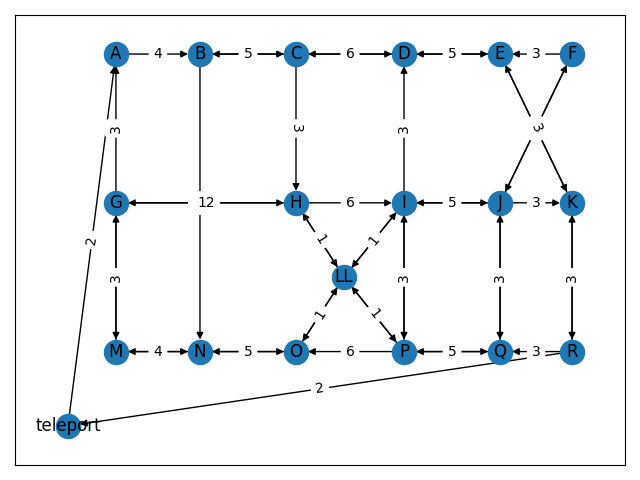
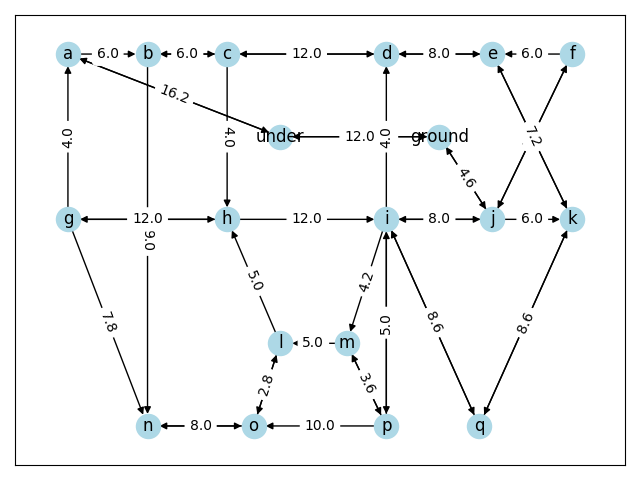
Improve example

diff --git a/examples/drawing.py b/examples/drawing.py
@@ -8,28 +8,34 @@ from asciidigraphs.parser import parse
 if __name__ == "__main__":
     graph = parse(
         r"""
-    (A)--->(B)-----(C)------(D)-----(E)<--(F)
-     ^      |       |        ^         \ /
-     |      |       |        |          X
-     |      |       v        |         / \
-    (G)-----+------(H)----->(I)-----(J)-->(K)
-     |      |         \    / |       |     |
-     |      |          (LL)  |       |     |
-     |      v         /    \ |       |     |
-    (M)----(N)-----(O)<-----(P)-----(Q)<--(R)
-
-(teleport)
+    (a)-->(b)---(c)---------(d)-----(e)<--(f)
+     ^     |     |           ^         \ /
+     |     |     |           |          X
+     |     |     v           |         / \
+    (g)----+----(h)-------->(i)-----(j)-->(k)
+       \   |      ^        / | \         /
+        \  |       \      v  |  \       /
+         \ |        (l)<-(m) |   \     /
+          vv        /      \ |    \   /
+          (n)-----(o)<------(p)    (q)
 """,
-        "(R)->(teleport)->(A)",
+        r"""
+    (a)
+       \
+        ------------(under)-----(ground)-(j)
+""",
     )
     nx_graph = to_networkx(graph)
     pos_by_node_symbol = {node.symbol: (node.pos.x, -node.pos.y) for node in graph.nodes}
-    nx.draw_networkx(nx_graph, pos=pos_by_node_symbol)
+    nx.draw_networkx(nx_graph, node_color="#add8e6", pos=pos_by_node_symbol)
     nx.draw_networkx_edge_labels(
         nx_graph,
         pos=pos_by_node_symbol,
         edge_labels={
-            (e.from_node.symbol, e.to_node.symbol): len(e.symbol) for e in graph.edges
+            (e.from_node.symbol, e.to_node.symbol): (
+                e.to_node.pos - e.from_node.pos
+            ).distance
+            for e in graph.edges
         },
     )
     pyplot.show()

diff --git a/asciidigraphs/positions.py b/asciidigraphs/positions.py
@@ -6,6 +6,10 @@ class Offset(namedtuple("Offset", "dx dy dz")):
         # noinspection PyArgumentList
         return super().__new__(cls, dx, dy, dz)
 
+    @property
+    def distance(self):
+        return round(sum(o * o for o in self) ** 0.5, 1)
+
 
 DOWN = Offset(dx=0, dy=1)
 DOWN_LEFT = Offset(dx=-1, dy=1)

diff --git a/tests/test_positions.py b/tests/test_positions.py
@@ -5,6 +5,10 @@ def test_new_offset_with_default_z():
     assert Offset(1, 2) == Offset(dx=1, dy=2, dz=0)
 
 
+def test_offset_to_euclidean_distance():
+    assert Offset(3, 4, 0).distance == 5
+
+
 def test_new_pos_with_default_z():
     assert Pos(1, 2) == Pos(x=1, y=2, z=0)
 

diff --git a/README.md b/README.md
@@ -8,7 +8,7 @@ WIP: Python library for parsing ASCII directed graphs.
 
 ## Example
 The following code snippet shows how to parse an ASCII directed graph, then convert it to
-a `networkx.DiGraph` and finally display it by means of `matplotlib`.
+a `networkx.DiGraph` and finally display it by means of `matplotlib`:
 
 ```python
 import networkx as nx
@@ -20,33 +20,39 @@ from asciidigraphs.parser import parse
 if __name__ == "__main__":
     graph = parse(
         r"""
-    (A)--->(B)-----(C)------(D)-----(E)<--(F)
-     ^      |       |        ^         \ /
-     |      |       |        |          X
-     |      |       v        |         / \
-    (G)-----+------(H)----->(I)-----(J)-->(K)
-     |      |         \    / |       |     |
-     |      |          (LL)  |       |     |
-     |      v         /    \ |       |     |
-    (M)----(N)-----(O)<-----(P)-----(Q)<--(R)
-
-(teleport)
+    (a)-->(b)---(c)---------(d)-----(e)<--(f)
+     ^     |     |           ^         \ /
+     |     |     |           |          X
+     |     |     v           |         / \
+    (g)----+----(h)-------->(i)-----(j)-->(k)
+       \   |      ^        / | \         /
+        \  |       \      v  |  \       /
+         \ |        (l)<-(m) |   \     /
+          vv        /      \ |    \   /
+          (n)-----(o)<------(p)    (q)
 """,
-        "(R)->(teleport)->(A)",
+        r"""
+    (a)
+       \
+        ------------(under)-----(ground)-(j)
+""",
     )
     nx_graph = to_networkx(graph)
     pos_by_node_symbol = {node.symbol: (node.pos.x, -node.pos.y) for node in graph.nodes}
-    nx.draw_networkx(nx_graph, pos=pos_by_node_symbol)
+    nx.draw_networkx(nx_graph, node_color="#add8e6", pos=pos_by_node_symbol)
     nx.draw_networkx_edge_labels(
         nx_graph,
         pos=pos_by_node_symbol,
         edge_labels={
-            (e.from_node.symbol, e.to_node.symbol): len(e.symbol) for e in graph.edges
+            (e.from_node.symbol, e.to_node.symbol): (
+                e.to_node.pos - e.from_node.pos
+            ).distance
+            for e in graph.edges
         },
     )
     pyplot.show()
 ```
 
-Expected output:
+Here's the expected output:
 
 ![Plot](docs/plot.png)
